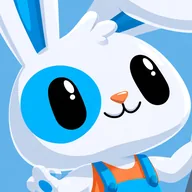
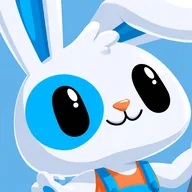
Photos de profil : recadrées sur la tête entière, oreilles comprises, centrées
Claude-Session: https://claude.ai/code/session_01NCact4aDAsqaAQirQTKuQo

diff --git a/sw.js b/sw.js
@@ -1,6 +1,6 @@
 // Garde l'app utilisable sans réseau (sous-sol, Wi-Fi faible).
 // Réseau d'abord, cache en secours; l'API n'est jamais mise en cache.
-const CACHE = 'quart-gym-v88';
+const CACHE = 'quart-gym-v89';
 const SHELL = ['./', 'index.html', 'styles.css', 'manifest.webmanifest', 'icons/icon.svg',
   'js/app.js', 'js/config.js', 'js/manual.js', 'js/planner.js', 'js/report.js', 'js/photos.js', 'js/i18n.js', 'js/illustrations.js', 'js/board.js', 'js/board-shape.js', 'js/auth.js', 'js/problems.js', 'js/problem-shape.js', 'js/pool.js', 'js/fx.js', 'js/clock.js', 'js/avatars.js', 'icons/avatars/lapin.webp', 'icons/avatars/salut.webp', 'icons/avatars/coucou.webp', 'icons/avatars/ours.webp', 'icons/avatars/renard.webp', 'icons/avatars/chat.webp', 'icons/avatars/faon.webp', 'icons/avatars/souris.webp', 'icons/rabbit.svg', 'icons/rabbit-hello.svg', 'icons/rabbit-cheer.svg', 'icons/rabbit-rest.svg', 'js/gym3d.js', 'js/floor-layout.js', 'fonts/fraunces-latin-full-normal.woff2', 'fonts/saira-semi-condensed-latin-300-normal.woff2', 'fonts/saira-semi-condensed-latin-500-normal.woff2', 'fonts/saira-semi-condensed-latin-600-normal.woff2', 'fonts/saira-semi-condensed-latin-700-normal.woff2', 'icons/logo-sportheque.png', 'icons/logo-sportheque-dark.png', 'icons/mark-sportheque.png', 'icons/mark-sportheque-dark.png'];
 
